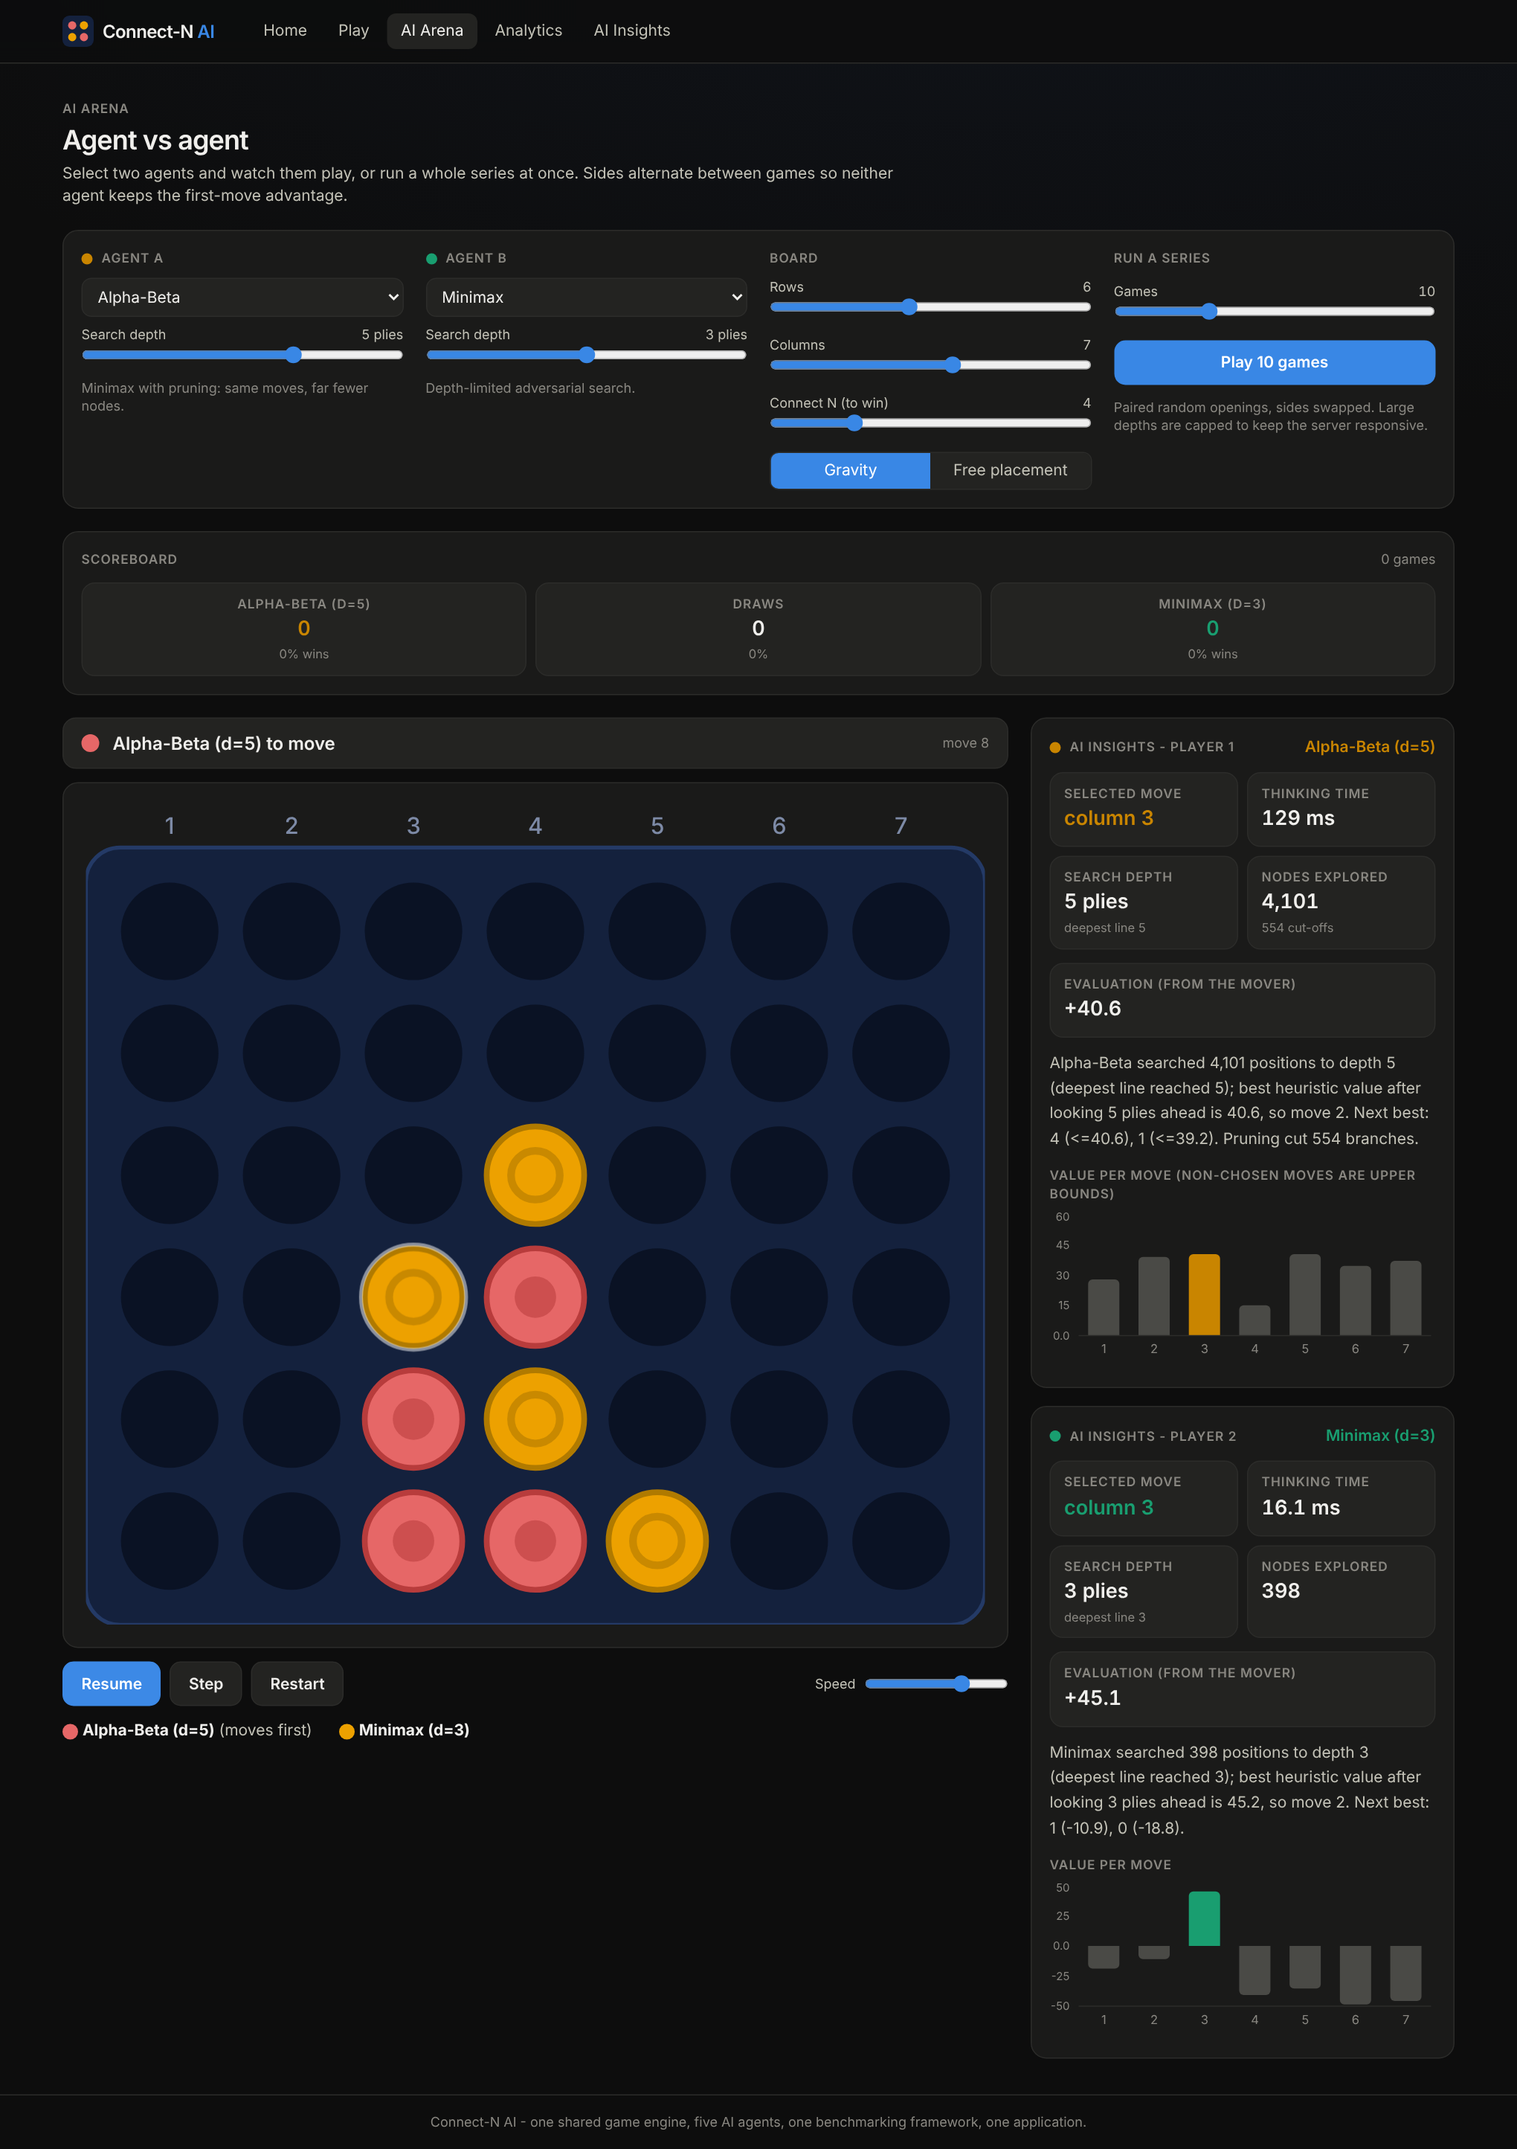
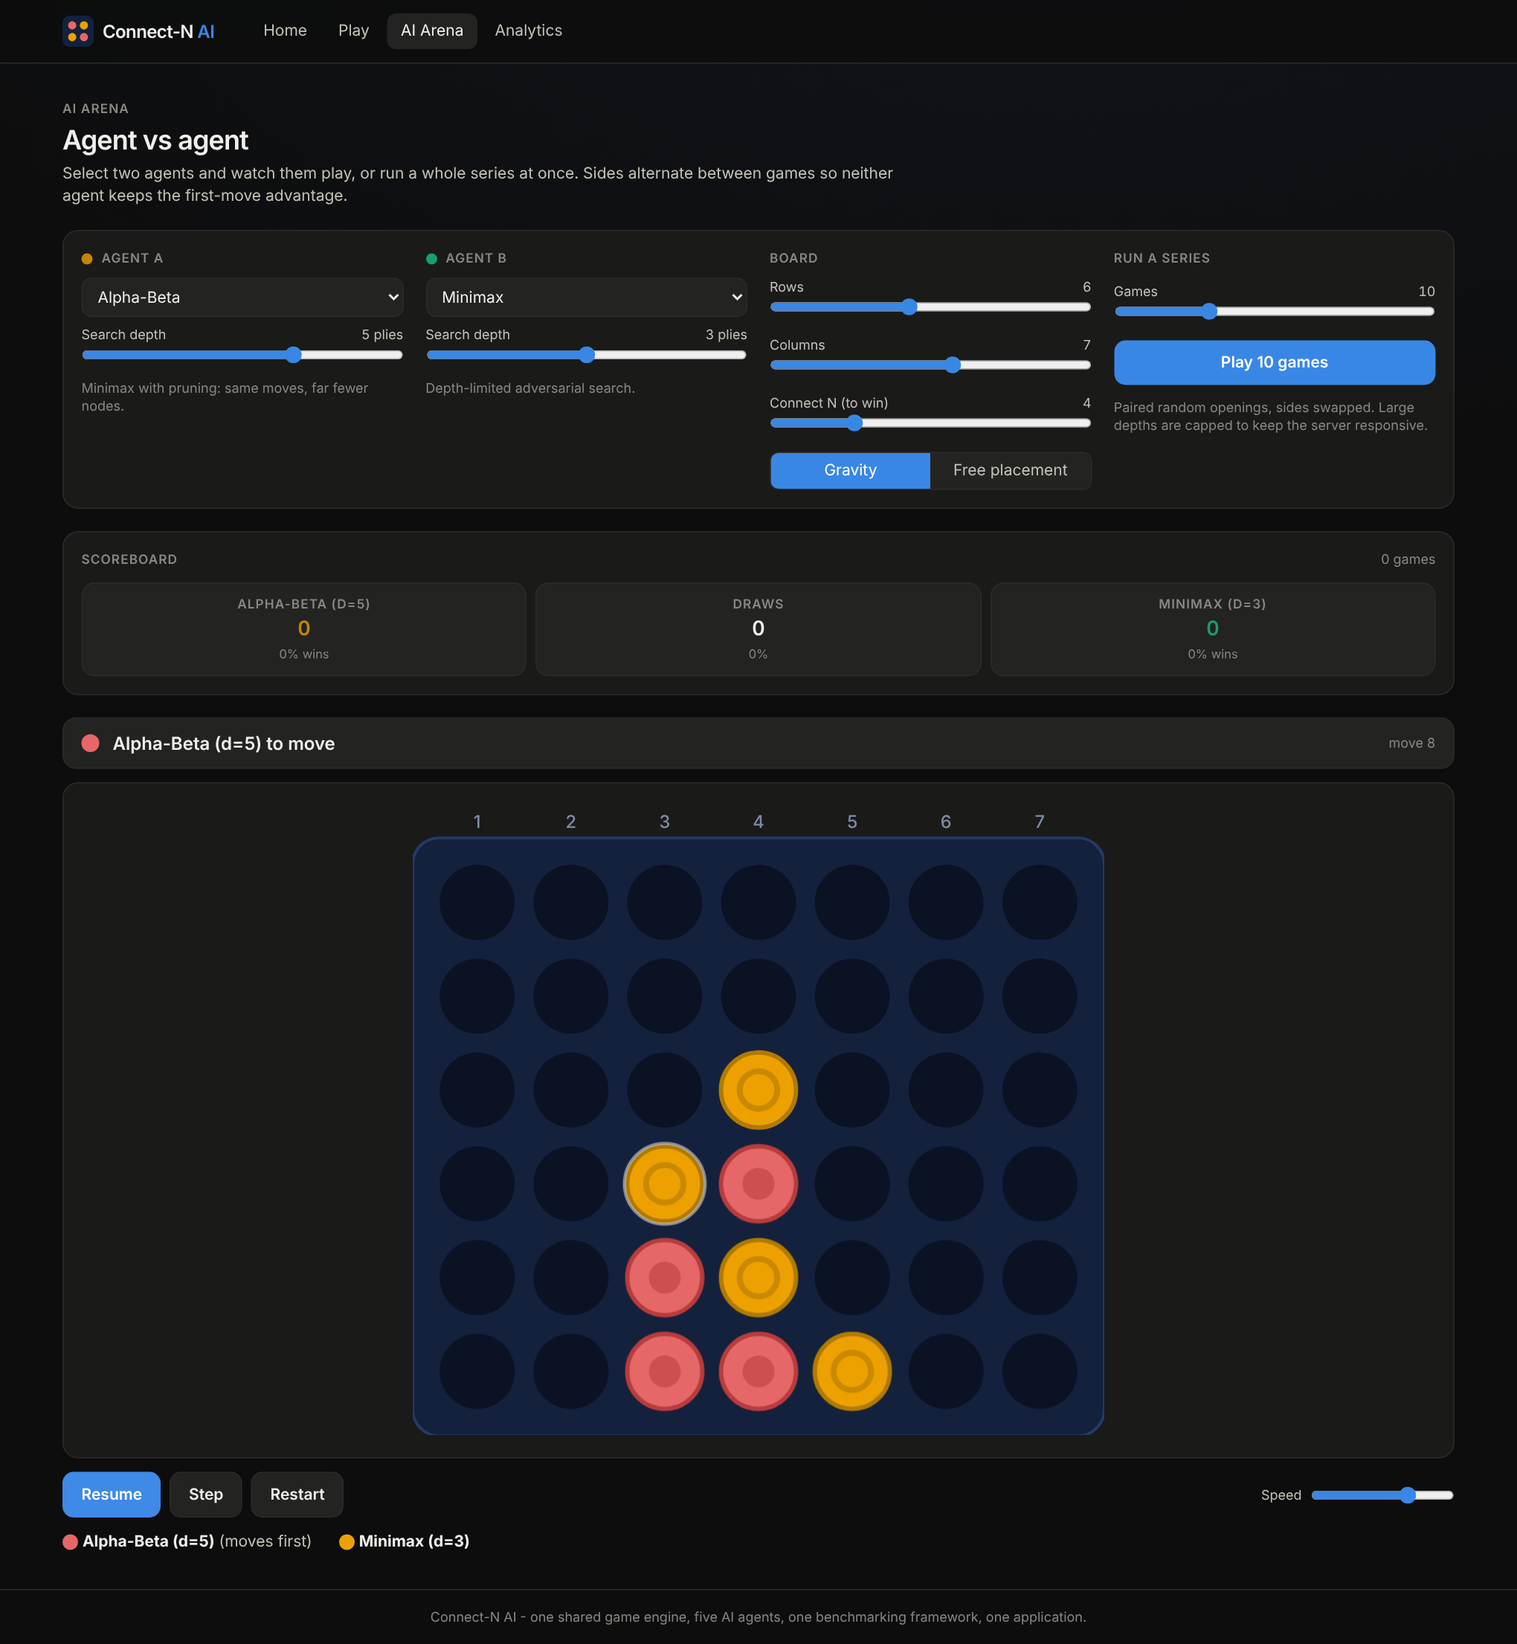
Remove AI Insights page and panels
Drop the AI Insights page, nav link and route, the InsightsPanel component
(Game and Arena), the /api/game/analyze endpoint with its schema and test,
explain_position, and the stored per-move decisions in useGame. Update the
README, architecture doc, screenshots and smoke-test script.

diff --git a/frontend/src/components/LiveMatch.jsx b/frontend/src/components/LiveMatch.jsx
@@ -2,7 +2,6 @@ import { useEffect, useRef, useState } from 'react'
 import { useGame } from '../hooks/useGame.js'
 import { agentLabel } from '../services/agents.js'
 import Board from './Board.jsx'
-import InsightsPanel from './InsightsPanel.jsx'
 import { Card, ErrorBanner, Spinner, StatusBanner, TokenDot } from './ui.jsx'
 
 /**
@@ -11,7 +10,7 @@ import { Card, ErrorBanner, Spinner, StatusBanner, TokenDot } from './ui.jsx'
  */
 export default function LiveMatch({ config, specs, onFinish, autoAlternate = true, resetKey = 0 }) {
   const game = useGame(config)
-  const { state, busy, error, decisions } = game
+  const { state, busy, error } = game
   const [playing, setPlaying] = useState(false)
   const [delay, setDelay] = useState(450)
   const [swapped, setSwapped] = useState(false)
@@ -49,11 +48,10 @@ export default function LiveMatch({ config, specs, onFinish, autoAlternate = tru
   }
   const nextGame = () => newGame(autoAlternate ? !swapped : swapped)
 
-  const lastFor = (token) => [...decisions].reverse().find((d) => d.player === token)?.decision
   const names = { 1: agentLabel(tokenSpec(1)), 2: agentLabel(tokenSpec(2)) }
 
   return (
-    <div className="grid lg:grid-cols-[minmax(0,1fr)_380px] gap-5">
+    <div>
       <div className="space-y-3">
         <StatusBanner state={state} names={names} />
         <Card className="p-3 sm:p-5">
@@ -80,10 +78,6 @@ export default function LiveMatch({ config, specs, onFinish, autoAlternate = tru
           <span><TokenDot player={1} /> <b className="text-ink">{names[1]}</b> (moves first)</span>
           <span><TokenDot player={2} /> <b className="text-ink">{names[2]}</b></span>
         </div>
-      </div>
-      <div className="space-y-4">
-        <InsightsPanel decision={lastFor(1)} config={config} title="AI Insights" playerLabel="Player 1" />
-        <InsightsPanel decision={lastFor(2)} config={config} title="AI Insights" playerLabel="Player 2" />
       </div>
     </div>
   )

diff --git a/frontend/src/hooks/useGame.js b/frontend/src/hooks/useGame.js
@@ -5,13 +5,11 @@ export const DEFAULT_CONFIG = { rows: 6, cols: 7, n: 4, gravity: true }
 
 /**
  * Game state backed by the stateless API.
- * `decisions` holds every AI decision (with the player who made it) for the insights panels.
  */
 export function useGame(initialConfig = DEFAULT_CONFIG) {
   const [config, setConfig] = useState(initialConfig)
   const [firstPlayer, setFirstPlayer] = useState(1)
   const [state, setState] = useState(null)
-  const [decisions, setDecisions] = useState([])
   const [busy, setBusy] = useState(false)
   const [error, setError] = useState(null)
   const busyRef = useRef(false)
@@ -39,7 +37,6 @@ export function useGame(initialConfig = DEFAULT_CONFIG) {
     busyRef.current = false
     setBusy(false)
     setError(null)
-    setDecisions([])
     setConfig(cfg)
     setFirstPlayer(first)
     try {
@@ -58,10 +55,8 @@ export function useGame(initialConfig = DEFAULT_CONFIG) {
   }), [config, state, firstPlayer, guarded])
 
   const aiMove = useCallback((spec) => guarded(async () => {
-    const mover = state.current_player
     const res = await api.aiMove(config, state.moves, firstPlayer, spec)
     setState(res.state)
-    setDecisions((d) => [...d, { ply: state.moves.length, player: mover, decision: res.decision }])
     return res
   }), [config, state, firstPlayer, guarded])
 
@@ -69,9 +64,8 @@ export function useGame(initialConfig = DEFAULT_CONFIG) {
     const moves = state.moves.slice(0, Math.max(0, state.moves.length - count))
     const next = await api.state(config, moves, firstPlayer)
     setState(next)
-    setDecisions((d) => d.filter((x) => x.ply < moves.length))
     return next
   }), [config, state, firstPlayer, guarded])
 
-  return { config, firstPlayer, state, decisions, busy, error, setError, reset, play, aiMove, undo }
+  return { config, firstPlayer, state, busy, error, setError, reset, play, aiMove, undo }
 }

diff --git a/frontend/src/pages/Game.jsx b/frontend/src/pages/Game.jsx
@@ -1,6 +1,5 @@
 import { useEffect, useRef, useState } from 'react'
 import Board from '../components/Board.jsx'
-import InsightsPanel from '../components/InsightsPanel.jsx'
 import LiveMatch from '../components/LiveMatch.jsx'
 import { AgentPicker, Card, ConfigPanel, ErrorBanner, SectionTitle, Spinner, StatusBanner, TokenDot } from '../components/ui.jsx'
 import { DEFAULT_CONFIG, useGame } from '../hooks/useGame.js'
@@ -11,7 +10,7 @@ function HumanVsAI({ config, setConfig }) {
   const [humanFirst, setHumanFirst] = useState(true)
   const [custom, setCustom] = useState(null) // custom agent overrides the difficulty preset
   const game = useGame(config)
-  const { state, busy, error, decisions } = game
+  const { state, busy, error } = game
   const human = humanFirst ? 1 : 2
   const aiPlayer = 3 - human
   const spec = custom ?? DIFFICULTIES[level]
@@ -28,11 +27,10 @@ function HumanVsAI({ config, setConfig }) {
   }, [state, busy, aiPlayer])
 
   const restart = (cfg = config, first = humanFirst) => game.reset(cfg, first ? 1 : 2)
-  const lastAI = [...decisions].reverse().find((d) => d.player === aiPlayer)?.decision
   const moveCount = state?.moves.length ?? 0
 
   return (
-    <div className="grid lg:grid-cols-[300px_minmax(0,1fr)_380px] gap-5">
+    <div className="grid lg:grid-cols-[300px_minmax(0,1fr)] gap-5">
       <Card className="p-4 space-y-5 h-fit">
         <div>
           <div className="label mb-2">Difficulty</div>
@@ -89,7 +87,6 @@ function HumanVsAI({ config, setConfig }) {
           {config.gravity ? 'Click a column to drop your token.' : 'Free placement: click any empty cell.'} Connect {config.n} in a row - horizontally, vertically or diagonally - to win.
         </p>
       </div>
-      <InsightsPanel decision={lastAI} config={config} title="AI Insights" />
     </div>
   )
 }

diff --git a/frontend/src/App.jsx b/frontend/src/App.jsx
@@ -3,10 +3,9 @@ import Home from './pages/Home.jsx'
 import Game from './pages/Game.jsx'
 import Arena from './pages/Arena.jsx'
 import Analytics from './pages/Analytics.jsx'
-import Insights from './pages/Insights.jsx'
 
 const NAV = [
-  ['/', 'Home'], ['/play', 'Play'], ['/arena', 'AI Arena'], ['/analytics', 'Analytics'], ['/insights', 'AI Insights'],
+  ['/', 'Home'], ['/play', 'Play'], ['/arena', 'AI Arena'], ['/analytics', 'Analytics'],
 ]
 
 function Logo() {
@@ -43,7 +42,6 @@ export default function App() {
           <Route path="/play" element={<Game />} />
           <Route path="/arena" element={<Arena />} />
           <Route path="/analytics" element={<Analytics />} />
-          <Route path="/insights" element={<Insights />} />
           <Route path="*" element={<Home />} />
         </Routes>
       </main>

diff --git a/frontend/src/pages/Home.jsx b/frontend/src/pages/Home.jsx
@@ -78,7 +78,7 @@ export default function Home() {
             ['Game engine', 'Rules only: validation, gravity / free placement, win + draw detection, undo.'],
             ['Agents + heuristic', 'Common interface; shared, configurable evaluation function.'],
             ['Benchmark framework', 'Paired-opening tournaments measuring win rate, time, nodes, depth, memory.'],
-            ['FastAPI + React', 'Stateless API; this UI renders the board, insights and analytics.'],
+            ['FastAPI + React', 'Stateless API; this UI renders the board and analytics.'],
           ].map(([t, d], i) => (
             <div key={t} className="rounded-xl bg-raised border border-line p-3">
               <div className="text-accent text-xs font-semibold">0{i + 1}</div>

diff --git a/frontend/src/components/Board.jsx b/frontend/src/components/Board.jsx
@@ -74,7 +74,7 @@ export default function Board({ board, config, winningCells = [], lastCell, lega
   }
 
   return (
-    <svg viewBox={`0 0 ${W} ${H}`} className="w-full select-none" role="img"
+    <svg viewBox={`0 0 ${W} ${H}`} className="w-full max-w-[620px] mx-auto select-none" role="img"
          aria-label={`Connect ${config.n} board, ${rows} rows by ${cols} columns`}>
       <rect x="0" y={top} width={W} height={H - top} rx="18" fill="#14213d" stroke="#243a66" strokeWidth="2" />
       {showColumnNumbers && Array.from({ length: cols }, (_, c) => (

diff --git a/frontend/src/services/api.js b/frontend/src/services/api.js
@@ -26,8 +26,6 @@ export const api = {
   move: (config, moves, first_player, move) => request('/api/game/move', { config, moves, first_player, move }),
   aiMove: (config, moves, first_player, agent) =>
     request('/api/game/ai-move', { config, moves, first_player, agent }),
-  analyze: (config, moves, first_player, agent) =>
-    request('/api/game/analyze', { config, moves, first_player, agent }),
   series: (payload) => request('/api/arena/series', payload),
   benchmarks: () => request('/api/benchmarks'),
 }

diff --git a/backend/tests/test_evaluation.py b/backend/tests/test_evaluation.py
@@ -3,7 +3,7 @@ import numpy as np
 
 from backend.engine import ConnectNGame, GameConfig
 from backend.evaluation import (
-    MAX_HEURISTIC, WIN_SCORE, Evaluator, HeuristicWeights, evaluate, explain_position,
+    MAX_HEURISTIC, WIN_SCORE, Evaluator, HeuristicWeights, evaluate, get_evaluator,
 )
 from .conftest import random_position
 
@@ -47,23 +47,23 @@ def test_blocked_window_is_not_counted():
     open_two = ConnectNGame.from_moves(None, [2, 6, 3, 6])
     # same stones but the right side is capped by an opponent token in the window
     capped = ConnectNGame.from_moves(None, [2, 1, 3, 4])
-    b_open = explain_position(open_two, 1)["own_windows_by_tokens"][2]
-    b_capped = explain_position(capped, 1)["own_windows_by_tokens"][2]
+    b_open = get_evaluator(open_two.config).breakdown(open_two.cells, 1)["own_windows_by_tokens"][2]
+    b_capped = get_evaluator(capped.config).breakdown(capped.cells, 1)["own_windows_by_tokens"][2]
     assert b_open > b_capped
 
 
 def test_immediate_threat_is_counted_and_rewarded():
     g = ConnectNGame.from_moves(None, [0, 6, 1, 6, 2, 5])  # P1 threatens column 3 right now
-    b = explain_position(g, 1)
+    b = get_evaluator(g.config).breakdown(g.cells, 1)
     assert b["own_immediate_threats"] == 1
     assert b["components"]["immediate_threats"] > 0
-    assert explain_position(g, 2)["opponent_immediate_threats"] == 1
+    assert get_evaluator(g.config).breakdown(g.cells, 2)["opponent_immediate_threats"] == 1
 
 
 def test_threat_above_an_empty_cell_is_not_immediate_under_gravity():
     # P1 holds (row4, cols 0-2); the completing cell (row4, col3) sits above the empty (row5, col3).
     g = ConnectNGame.from_moves(None, [6, 0, 0, 1, 1, 2, 2])
-    b = explain_position(g, 1)
+    b = get_evaluator(g.config).breakdown(g.cells, 1)
     assert b["own_windows_by_tokens"][3] >= 1      # the 3-window exists ...
     assert b["own_immediate_threats"] == 0         # ... but cannot be played yet
     assert b["opponent_immediate_threats"] == 1    # while P2's bottom-row three can (column 3)
@@ -72,7 +72,7 @@ def test_threat_above_an_empty_cell_is_not_immediate_under_gravity():
 def test_free_placement_threat_is_always_immediate():
     cfg = GameConfig(6, 7, 4, gravity=False)
     g = ConnectNGame.from_moves(cfg, [4 * 7 + 0, 0, 4 * 7 + 1, 1, 4 * 7 + 2, 2])
-    assert explain_position(g, 1)["own_immediate_threats"] >= 1
+    assert get_evaluator(g.config).breakdown(g.cells, 1)["own_immediate_threats"] >= 1
 
 
 def test_weights_are_configurable():

diff --git a/scripts/capture_screenshots.py b/scripts/capture_screenshots.py
@@ -44,9 +44,8 @@ with sync_playwright() as p:
     box = board.bounding_box()
     # click the middle column (centre x), anywhere vertically
     page.mouse.click(box["x"] + box["width"] / 2, box["y"] + box["height"] / 2)
-    page.wait_for_selector("text=Selected move", timeout=20000)
+    page.wait_for_function("document.querySelector('[role=status]')?.innerText.includes('move 2')", timeout=20000)
     page.wait_for_selector("text=Your turn", timeout=20000)
-    check(page.locator("text=Nodes explored").count() > 0, "AI insights shown after the AI move")
     page.wait_for_timeout(500)  # input is (correctly) ignored while a move is in flight
     page.mouse.click(box["x"] + box["width"] * 0.35, box["y"] + box["height"] / 2)
     page.wait_for_function("document.querySelector('[role=status]')?.innerText.includes('move 4')", timeout=20000)
@@ -87,18 +86,6 @@ with sync_playwright() as p:
     page.wait_for_timeout(1500)
     page.screenshot(path=OUT / "analytics_dashboard.png", full_page=True)
     check(page.locator("svg.recharts-surface").count() >= 8, f"charts rendered ({page.locator('svg.recharts-surface').count()})")
-
-    # ---- Insights
-    page.goto(BASE + "/insights")
-    page.wait_for_selector("text=Selected move", timeout=30000)
-    box = page.locator("svg[role=img]").first.bounding_box()
-    for frac in (0.5, 0.5, 0.36):
-        page.mouse.click(box["x"] + box["width"] * frac, box["y"] + box["height"] / 2)
-        page.wait_for_timeout(700)
-    page.wait_for_selector("text=Heuristic evaluation", timeout=30000)
-    page.wait_for_timeout(1200)
-    page.screenshot(path=OUT / "ai_insights.png", full_page=True)
-    check(page.locator("text=Own open windows").count() > 0, "insights heuristic breakdown")
 
     # ---- Mobile layout
     mob = browser.new_page(viewport={"width": 390, "height": 844}, device_scale_factor=2)

diff --git a/backend/tests/test_api.py b/backend/tests/test_api.py
@@ -1,4 +1,4 @@
-"""HTTP API: stateless game flow, validation, AI moves, analysis and arena series."""
+"""HTTP API: stateless game flow, validation, AI moves and arena series."""
 import pytest
 from fastapi.testclient import TestClient
 
@@ -56,7 +56,7 @@ def test_ai_move_by_difficulty(difficulty):
     assert d["time_ms"] >= 0 and d["explanation"]
 
 
-def test_ai_move_exposes_insights_for_search_agents():
+def test_ai_move_returns_decision_statistics_for_search_agents():
     r = client.post("/api/game/ai-move", json={"config": CFG, "moves": [3, 3],
                                                 "agent": {"kind": "alphabeta", "depth": 4}}).json()
     d = r["decision"]
@@ -85,13 +85,6 @@ def test_free_placement_game_over_the_api():
     cfg = {"rows": 5, "cols": 5, "n": 4, "gravity": False}
     r = client.post("/api/game/ai-move", json={"config": cfg, "moves": [12], "agent": {"kind": "greedy"}})
     assert r.status_code == 200 and len(r.json()["state"]["moves"]) == 2
-
-
-def test_analyze_returns_breakdown_and_best_move():
-    r = client.post("/api/game/analyze", json={"config": CFG, "moves": [3, 3, 2],
-                                                "agent": {"kind": "alphabeta", "depth": 3}}).json()
-    assert set(r["evaluation"]) == {"player_1", "player_2"}
-    assert "components" in r["evaluation"]["player_1"] and r["decision"]["move"] in range(7)
 
 
 def test_arena_series_is_consistent():

diff --git a/backend/api/main.py b/backend/api/main.py
@@ -21,9 +21,9 @@ from ..agents import (
 )
 from ..benchmarks import run_pairing
 from ..engine import ConnectNGame, GameConfig, IllegalMoveError
-from ..evaluation import DEFAULT_WEIGHTS, explain_position
+from ..evaluation import DEFAULT_WEIGHTS
 from .schemas import (
-    AIMoveRequest, AnalyzeRequest, ConfigModel, GameStateRequest, MoveRequest, NewGameRequest,
+    AIMoveRequest, ConfigModel, GameStateRequest, MoveRequest, NewGameRequest,
     SeriesRequest,
 )
 
@@ -141,24 +141,6 @@ def ai_move(req: AIMoveRequest):
     decision = run_agent(resolve_agent_spec(req.agent, req.difficulty), game)
     game.play(decision["move"])
     return {"state": game.to_dict(), "decision": decision}
-
-
-@app.post("/api/game/analyze")
-def analyze(req: AnalyzeRequest):
-    """Evaluate the current position without playing: heuristic breakdown + best move."""
-    game = build_game(req)
-    response: Dict[str, Any] = {
-        "state": game.to_dict(),
-        "evaluation": {
-            "player_1": explain_position(game, 1),
-            "player_2": explain_position(game, 2),
-        },
-        "decision": None,
-    }
-    if not game.is_over:
-        spec = resolve_agent_spec(req.agent, "hard")
-        response["decision"] = run_agent(spec, game)
-    return response
 
 
 @app.post("/api/arena/series")

diff --git a/backend/evaluation/heuristic.py b/backend/evaluation/heuristic.py
@@ -169,8 +169,3 @@ def get_evaluator(config: GameConfig, weights: Optional[HeuristicWeights] = None
 def evaluate(game: ConnectNGame, player: int, weights: Optional[HeuristicWeights] = None) -> float:
     """Convenience wrapper: score ``game`` for ``player``."""
     return get_evaluator(game.config, weights).evaluate(game, player)
-
-
-def explain_position(game: ConnectNGame, player: int, weights: Optional[HeuristicWeights] = None) -> Dict:
-    """Feature breakdown of a position, used by the AI Insights screen."""
-    return get_evaluator(game.config, weights).breakdown(game.cells, player)
